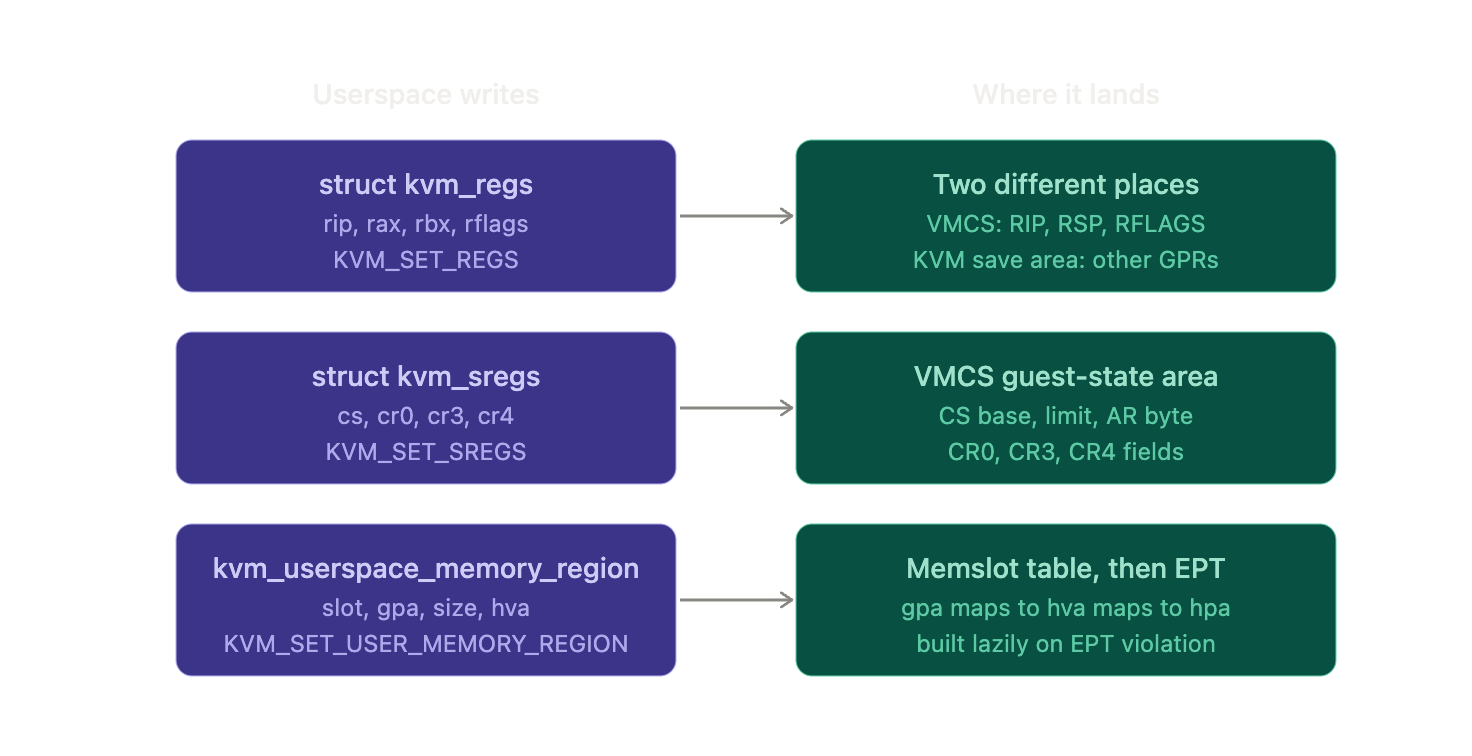
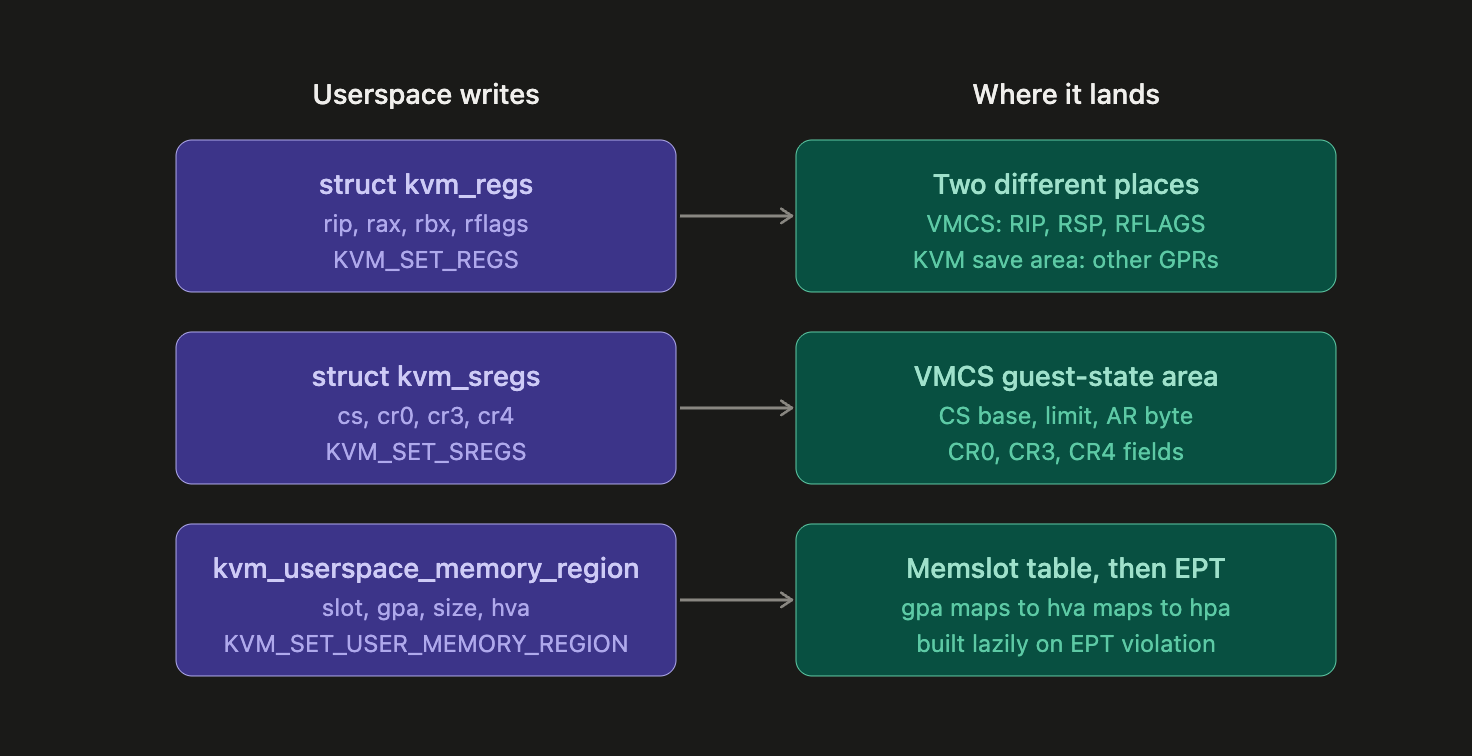
tiny-kvm-vmm: make images have dark background

diff --git a/_includes/tiny-kvm-vmm/kvmtest-stepper.html b/_includes/tiny-kvm-vmm/kvmtest-stepper.html
@@ -13,7 +13,7 @@
     --kvmt-bg: #ffffff;
     --kvmt-fg: #1c1c1a;
     --kvmt-dim: #5f5e5a;
-    --kvmt-mute: #8a8984;
+    --kvmt-mute: #66655f;
     --kvmt-line: #e3e1da;
     --kvmt-line-2: #c9c7bf;
     --kvmt-vmm-bg: #e6f1fb; --kvmt-vmm-fg: #0c447c;
@@ -21,14 +21,18 @@
     --kvmt-gst-bg: #e1f5ee; --kvmt-gst-fg: #0f6e56;
     --kvmt-mono: ui-monospace, SFMono-Regular, "SF Mono", Menlo, Consolas, monospace;
     color: var(--kvmt-fg);
+    background: var(--kvmt-bg);
+    color-scheme: light dark;
     font-family: inherit;
     font-size: 15px;
     line-height: 1.6;
     margin: 2rem 0;
+    padding: 20px;
+    border-radius: 12px;
   }
   @media (prefers-color-scheme: dark){
     .kvmt{
-      --kvmt-bg: #1a1a18; --kvmt-fg: #e8e6df; --kvmt-dim: #a8a69e; --kvmt-mute: #7c7b76;
+      --kvmt-bg: #1a1a18; --kvmt-fg: #e8e6df; --kvmt-dim: #a8a69e; --kvmt-mute: #a8a69e;
       --kvmt-line: #33322e; --kvmt-line-2: #4a4944;
       --kvmt-vmm-bg: #0c447c; --kvmt-vmm-fg: #b5d4f4;
       --kvmt-kvm-bg: #633806; --kvmt-kvm-fg: #fac775;

diff --git a/_drafts/2026-05-31-tiny-kvm-vmm.md b/_drafts/2026-05-31-tiny-kvm-vmm.md
@@ -8,15 +8,15 @@ Pekka Enberg in [3] discusses the past and future of hypervisors. In particular,
 That is a useful theoretical model to have in mind, but it doesn't line up very well with how hypervisors are implemented in practice,
 where the kernel (KVM, Apple's Hypervisor.framework) and the user-space emulator (qemu, firecracker, etc) both implement parts of Pekka's VMM and device-model.
 
-![](/assets/tiny-kvm-vmm/vmm-vs-device-model.png)
+![VMM and device model responsibilities across userspace and the kernel.](/assets/tiny-kvm-vmm/vmm-vs-device-model.png)
 
 ## What KVM Is
 
 KVM is the hardware path. The important conceptual point is that KVM is essentially an ioctl API over VMX/SVM and several file descriptor types: a system fd from `/dev/kvm`, a VM fd, vCPU fds, and sometimes device fds. ([Kernel.org][2])
 
-![](/assets/tiny-kvm-vmm/kvm-fds.png)
+![KVM system, VM, and vCPU file descriptors and their ioctl operations.](/assets/tiny-kvm-vmm/kvm-fds.png)
 
-![](/assets/tiny-kvm-vmm/kvm-regs-and-mem.png)
+![How KVM register and memory configuration maps to kernel and hardware state.](/assets/tiny-kvm-vmm/kvm-regs-and-mem.png)
 
 ## Setting up
 
@@ -212,7 +212,7 @@ trap, no emulation, no round trip through your process. It is also live:
 nothing here has to wait for `hlt`. Host and guest can read and write the same
 page while the vCPU is running.
 
-![](/assets/tiny-kvm-vmm/kvm-host-guest-mmap.png)
+![Host mappings for guest RAM and the shared kvm_run page.](/assets/tiny-kvm-vmm/kvm-host-guest-mmap.png)
 
 #### Coda: a slot can be backed by anything
 
